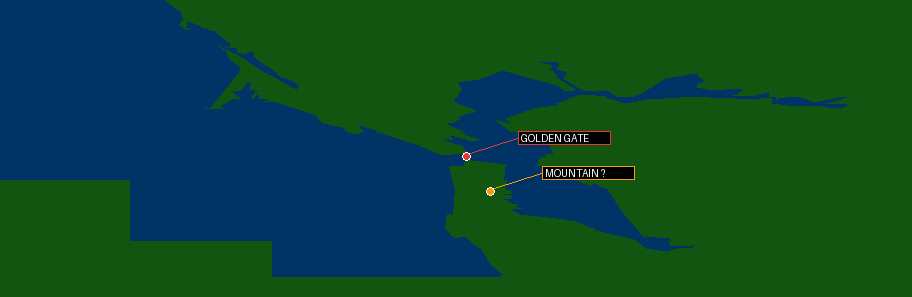
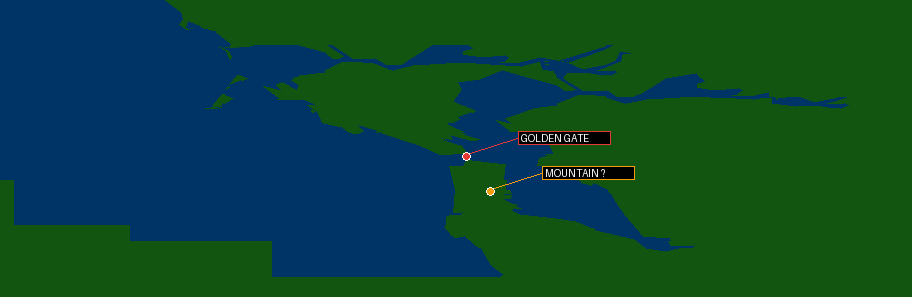
Join run037 into M-map vector mosaic

diff --git a/scripts/render_m_map_panned_vector_mosaic.py b/scripts/render_m_map_panned_vector_mosaic.py
@@ -15,9 +15,10 @@ from PIL import Image, ImageDraw
 ROOT = Path(__file__).resolve().parents[1]
 LAND, SEA = "#115511", "#003366"
 RUNS = (
-    # Normalise at run042's upper-left. run042 = run035 + (130,61), and
-    # run035 = run003 + (142,36), so add (130,61) to run035 and (272,97) to run003.
+    # Normalise at run042's upper-left. run042 = run035 + (130,61),
+    # run035 = run037 + (116,16), and run035 = run003 + (142,36).
     ("run042", ROOT / "build/run042_m_map_projected_polygons/projected_polygons.json", 0, 0, 40),
+    ("run037", ROOT / "build/run037_m_map_projected_polygons/projected_polygons.json", 14, 45, 47),
     ("run035", ROOT / "build/run035_m_map_projected_polygons/projected_polygons.json", 130, 61, 49),
     ("run003", ROOT / "build/run003_m_map_projected_polygons/projected_polygons.json", 272, 97, 42),
 )
@@ -83,7 +84,7 @@ def main() -> None:
         "runs": report_runs,
         "landmarks": [{"name": name, "anchor": [x, y]} for name, x, y, _ in ANCHORS],
         "golden_gate_segments": [[list(start), list(end)] for start, end in GOLDEN_GATE_LINES],
-        "qualification": "The normalized mosaic places run042 at (0,0), run035 at +130,+61, and run003 at +272,+97 host pixels. The first translation is the 98.4816%-agreement run035/run042 water-pixel join; the latter composes it with run035 = run003 + (142,36). Its red Golden Gate vectors are C3559A/C355D2 lines transferred through the red-pixel-validated relation. This is a joined observed coverage view, not absolute global coordinates, a complete world map, or a full terrain-model extraction. Screen-relative grid and state-dependent flight-object symbols are excluded.",
+        "qualification": "The normalized mosaic places run042 at (0,0), run037 at +14,+45, run035 at +130,+61, and run003 at +272,+97 host pixels. The run037/run035 join is 97.9997% agreement across 84,888 water pixels; run035/run042 is 98.4816%, and run003 follows the established +142,+36 relation from run035. Its red Golden Gate vectors are C3559A/C355D2 lines transferred through the red-pixel-validated relation. This is a joined observed coverage view, not absolute global coordinates, a complete world map, or a full terrain-model extraction. Screen-relative grid and state-dependent flight-object symbols are excluded.",
     }
     report_path.write_text(json.dumps(report, indent=2) + "\n", encoding="utf-8")
     print(json.dumps({"runs": len(report_runs), "svg": str(svg_path), "png": str(png_path)}))

diff --git a/analysis/data/m_map_panned_projected_polygon_mosaic.md b/analysis/data/m_map_panned_projected_polygon_mosaic.md
@@ -3,13 +3,16 @@
 [Open the source SVG](../visuals/m_map_panned_projected_polygon_mosaic.svg) or
 [inspection PNG](../visuals/m_map_panned_projected_polygon_mosaic.png).
 
-This wider view joins the run042 40-polygon, run035 49-polygon, and run003
-42-polygon canonical M-map passes. Every blue shape is a direct `$C4B390`
+This wider view joins the run042 40-polygon, run037 47-polygon, run035
+49-polygon, and run003 42-polygon canonical M-map passes. Every blue shape is a direct `$C4B390`
 projected polygon captured immediately before `$C2FF48`; the green base is the
 game’s observed land palette. In the normalized mosaic run042 starts at
-`(0,0)`, run035 is translated by `(130,61)`, and run003 by `(272,97)` host
-pixels. The run035/run042 join has 98.4816% blue-water agreement over 59,670
-pixels; its measurement is
+`(0,0)`, run037 is translated by `(14,45)`, run035 by `(130,61)`, and run003
+by `(272,97)` host pixels. The run037/run035 join has 97.9997% blue-water
+agreement over 84,888 pixels, while run035/run042 has 98.4816% over 59,670;
+their measurements are
+[`run037_run035_m_map_pan_comparison.json`](run037_run035_m_map_pan_comparison.json)
+and
 [`run035_run042_m_map_pan_comparison.json`](run035_run042_m_map_pan_comparison.json).
 
 Golden Gate and Mountain ? retain their existing evidence-qualified anchors.

diff --git a/analysis/data/run037_m_map_projected_polygon_vectors.md b/analysis/data/run037_m_map_projected_polygon_vectors.md
@@ -1,0 +1,15 @@
+# Run037 M-map projected polygon vectors
+
+[Open the source-vector SVG](../visuals/run037_m_map_projected_polygon_vectors.svg)
+or its [inspection PNG](../visuals/run037_m_map_projected_polygon_vectors.png).
+
+The run037 stable M-map checkpoint supplies a 47-submission canonical pass of
+`$C4B390` projected polygons captured immediately before `$C2FF48`. Against
+the matching no-input replay screen, land/sea agreement is **109,247 /
+112,320 = 97.2641%**.
+
+Its blue-water raster joins run035 with
+`run035(x+116,y+16)=run037(x,y)`: 84,888 overlapping pixels agree at
+97.9997%. This admits run037 as a fourth direct source-vector pass in the
+panned mosaic. It remains a map-view translation, not an absolute world
+coordinate or complete terrain-model proof.
